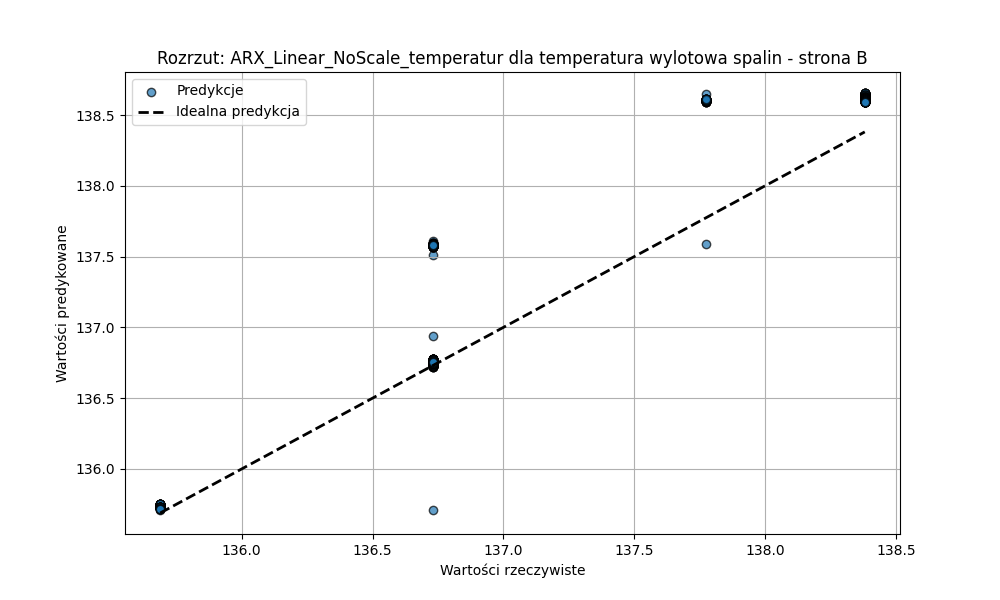
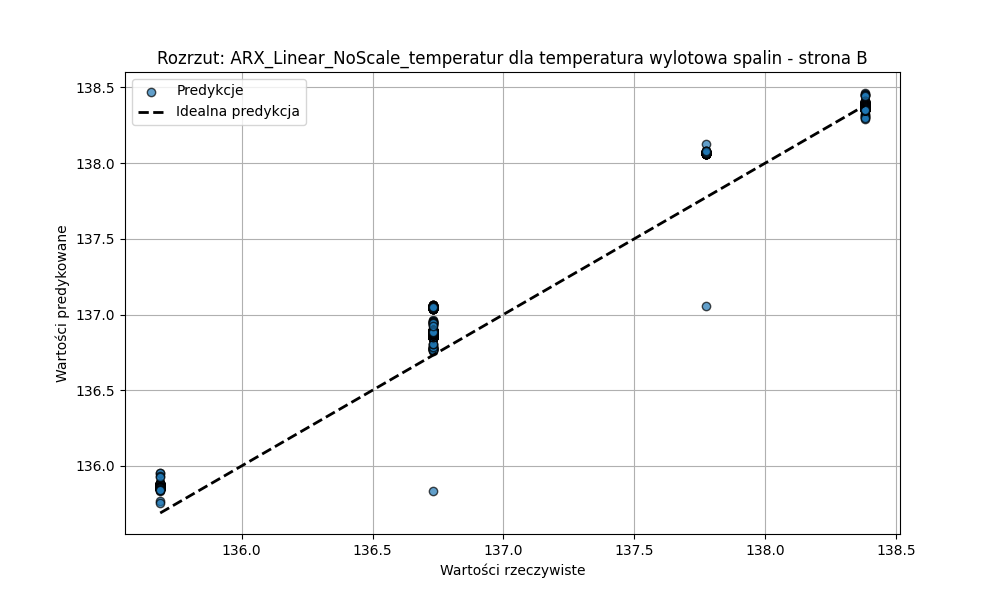
good  inputs, cleanup

diff --git a/src/modeling/advanced_models.py b/src/modeling/advanced_models.py
@@ -140,7 +140,6 @@ def train_evaluate_dynamic_arx_model(
     
     active_inputs = [col for col in input_features if col in df.columns]
     
-    # JEDNO, POPRAWNE WYWOŁANIE create_arx_data
     full_arx_df, X_cols = create_arx_data(
         df=df.dropna(subset=active_inputs + [target_col]),
         input_cols=active_inputs,
@@ -160,7 +159,6 @@ def train_evaluate_dynamic_arx_model(
         print(f"Błąd: Zbiór treningowy lub testowy jest pusty dla {target_col}.")
         return
 
-    # POPRAWKA: Używamy X_cols, a nie X_arx.columns
     X_train, y_train = train_df[X_cols], train_df[target_col]
     X_test, y_test = test_df[X_cols], test_df[target_col]
 
@@ -205,39 +203,6 @@ def train_evaluate_dynamic_arx_model(
     print(f"Global MSE: {mse:.4f}, MAE: {mae:.4f}, RMSE: {rmse:.4f}")
     print(f"Global R2: {r2:.4f}, Adjusted R2: {adj_r2:.4f}")
     
-    if plot_results:
-        plot_predictions_vs_actual_scatter(y_test, predictions, target_col, model_name, plots_dir)
-        plot_predictions_over_samples(y_test, predictions, target_col, model_name, plots_dir)
-        
-
-def _run_single_arx_evaluation(X_train, y_train, X_test, y_test, model_pipeline, target_col, model_name, plots_dir, plot_results):
-    """Helper function to fit, predict, and print metrics for a single ARX model run."""
-    print(f"Trening modelu: {model_name}")
-    model_pipeline.fit(X_train, y_train)
-    predictions = model_pipeline.predict(X_test)
-    
-    # Tutaj wklej logikę obliczania i drukowania metryk z Twoich istniejących funkcji
-    # (mean_squared_error, r2_score, calculate_adj_r2, etc.)
-    mse = mean_squared_error(y_test, predictions)
-    r2 = r2_score(y_test, predictions)
-    mae = mean_absolute_error(y_test, predictions)
-    rmse = np.sqrt(mse)
-    
-    n_test = len(y_test)
-    try:
-        p_features = model_pipeline.named_steps['polynomialfeatures'].n_output_features_
-    except KeyError:
-        p_features = X_train.shape[1]
-    adj_r2 = calculate_adj_r2(r2, n_test, p_features)
-
-    metrics = {'mse': mse, 'r2': r2, 'mae': mae, 'rmse': rmse, 'adj_r2': adj_r2}
-    calculate_dynamic_static_metrics(y_test, predictions, metrics)
-
-    print(f"Global MSE: {mse:.4f}, MAE: {mae:.4f}, RMSE: {rmse:.4f}")
-    print(f"Global R2: {r2:.4f}, Adjusted R2: {adj_r2:.4f}")
-    print(f"Dynamic Change MSE: {metrics.get('mse_dynamic_change', np.nan):.4f}, MAE: {metrics.get('mae_dynamic_change', np.nan):.4f}, R2: {metrics.get('r2_dynamic_change', np.nan):.4f}")
-    print(f"Static Continuation MSE: {metrics.get('mse_static_cont', np.nan):.4f}, MAE: {metrics.get('mae_static_cont', np.nan):.4f}, R2: {metrics.get('r2_static_cont', np.nan):.4f}")
-
     if plot_results:
         plot_predictions_vs_actual_scatter(y_test, predictions, target_col, model_name, plots_dir)
         plot_predictions_over_samples(y_test, predictions, target_col, model_name, plots_dir)

diff --git a/src/main.py b/src/main.py
@@ -14,7 +14,7 @@ def main():
     
     # Dynamic ARX model configuration
     ARX_PARAMS = {
-        "na": 3,
+        "na": 4,
         "nb": 2,
         "nk": 1,
         "poly_degree": 2
@@ -193,6 +193,8 @@ def main():
         # KLUCZOWA ZMIANA: Osobne wejścia dla każdego celu!
         # Poniżej przykład - musisz je dobrać na podstawie wiedzy o obiekcie.
         features_target_A = [
+            "temperatura mieszanki za młynem A", "temperatura mieszanki za młynem F", 
+            "temperatura mieszanki za młynem E",
             "kąt wychylenia palnika róg #1", "kąt wychylenia palnika róg #2", "kąt wychylenia palnika róg #3", "kąt wychylenia palnika róg #4",
             "klapy wentlatora podmuchu - strona A", "klapy wentlatora podmuchu - strona B",
             "przepływ powietrza pierwotnego", "ciśnienie wody wtryskowej do pary świeżej",
@@ -202,6 +204,8 @@ def main():
         target_A = "temperatura wylotowa spalin - strona A"
 
         features_target_B = [
+            "temperatura mieszanki za młynem A", "temperatura mieszanki za młynem F", 
+            "temperatura mieszanki za młynem E",
             "kąt wychylenia palnika róg #1", "kąt wychylenia palnika róg #2", "kąt wychylenia palnika róg #3", "kąt wychylenia palnika róg #4",
             "klapy wentlatora podmuchu - strona A", "klapy wentlatora podmuchu - strona B",
             "przepływ powietrza pierwotnego", "ciśnienie wody wtryskowej do pary świeżej",
@@ -216,7 +220,7 @@ def main():
         }
 
         TRAIN_DAYS = ['d3', 'd6']
-        TEST_DAYS = ['d2']
+        TEST_DAYS = ['d2', 'd5']
 
         # Pętla trenująca osobny model dla każdego celu
         for target_col, input_features in targets_and_features_arx.items():
